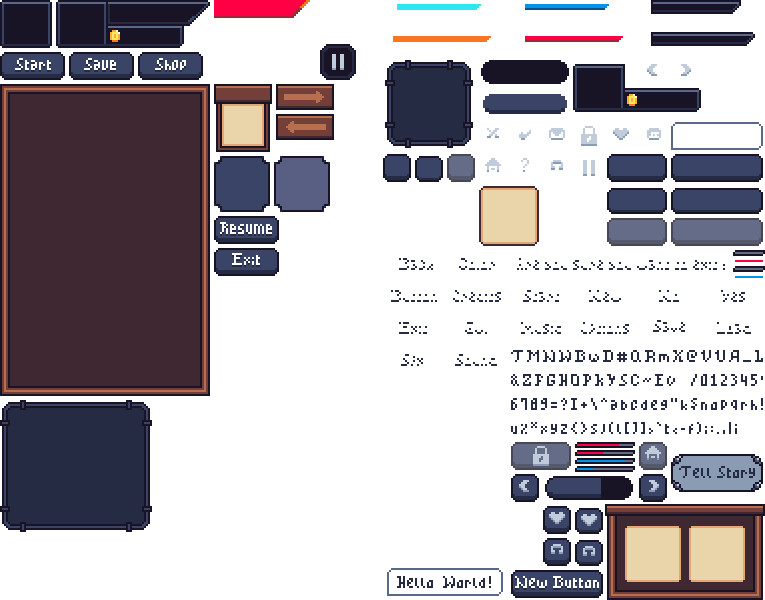
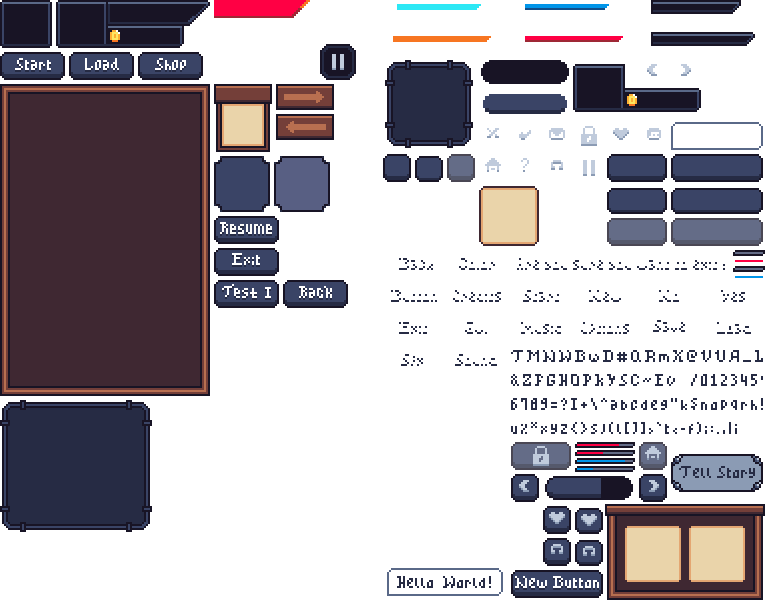
text added, load game button added (not working now)

Changed region(s): [[0.2706, 0.45, 0.481, 0.54], [0.0902, 0.09, 0.1503, 0.12]]

diff --git a/master.py b/master.py
@@ -66,9 +66,6 @@ if __name__ == '__main__':
     shop_button = ui.Buttons(pos=(720, 20), sprite_group=(sprites.all_sprites, sprites.ui_sprites), image_pos=(138, 52), image_size=(65, 28))
     player_balance = ui.Text(pos=(90, 50), sprite_group=sprites.all_sprites)
     player_ammo = ui.Text(pos=(720, 460), sprite_group=sprites.all_sprites)
-    info1 = ui.Text(pos=(30, 400), sprite_group=sprites.all_sprites, text='press W, A, S, D to move', size=14)
-    info2 = ui.Text(pos=(30, 430), sprite_group=sprites.all_sprites, text='press F to take the gun', size=14)
-    info2 = ui.Text(pos=(30, 460), sprite_group=sprites.all_sprites, text='press G to drop the gun', size=14)
 
     # Shop
     shop = ui.Shop(player=pl, pos=(590, 60), image_pos=(0, 84), image_size=(210, 312), sprite_group=(sprites.ui_sprites, sprites.all_sprites))
@@ -115,15 +112,28 @@ if __name__ == '__main__':
         if bool:
             game_started = True
             for sprite in main_menu_group:
-                sprite.add(sprites.all_sprites)
+                sprite.kill()
+                sprite.add(main_menu_group)
         else:
             game_started = False
-            for sprite in main_menu_group:
-                sprites.all_sprites.remove(sprite)
+
+    
+    def set_loading_menu_opened(bool):
+        global loading_menu_opened
+        if bool:
+            loading_menu_opened = True
+            for sprite in loading_menu_sprites:
+                sprite.add(main_menu_group)
+        else:
+            loading_menu_opened = False
+            for sprite in loading_menu_sprites:
+                main_menu_group.remove(sprite)
 
     pause_group = pygame.sprite.Group()
     main_menu_group = pygame.sprite.Group()
+    loading_menu_sprites = pygame.sprite.Group()
 
+    # Pause
     pause_button = ui.Buttons((390, 10), image_pos=(320, 44), image_size=(36, 36), sprite_group=(sprites.all_sprites, sprites.ui_sprites))
 
     black_bg = pygame.sprite.Sprite(pause_group)
@@ -135,14 +145,31 @@ if __name__ == '__main__':
     buttons_bg = ui.Img(pos=(280, 80), image_pos=(0, 400), image_size=(152, 132), sprite_group=(pause_group), scale=1.5)
     resume_button = ui.Buttons(pos=(345, 130), image_pos=(214, 216), image_size=(65, 28), sprite_group=(pause_group), scale=1.5)
     exit_button_on_pause = ui.Buttons(pos=(345, 180), image_pos=(214, 248), image_size=(65, 28), sprite_group=(pause_group), scale=1.5)
+    info1 = ui.Text(pos=(30, 340), sprite_group=pause_group, text='press W, A, S, D to move', size=14)
+    info2 = ui.Text(pos=(30, 370), sprite_group=pause_group, text='press F to take the gun', size=14)
+    info3 = ui.Text(pos=(30, 400), sprite_group=pause_group, text='press G to drop the gun', size=14)
+    info4 = ui.Text(pos=(30, 430), sprite_group=pause_group, text='press E to take the heal', size=14)
+    info5 = ui.Text(pos=(30, 460), sprite_group=pause_group, text='press Enter to the next level', size=14)
 
+    # Main menu
     main_menu_bg = ui.Img(pos=(0, 0), image='main_menu_bg2.png', image_pos=(0, 0), image_size=(800, 500), sprite_group=main_menu_group)
 
     start_game_button = ui.Buttons(pos=(345, 180), image_pos=(0, 52), image_size=(65, 28), sprite_group=(main_menu_group), scale=2)
-    exit_button_on_main_menu = ui.Buttons(pos=(345, 240), image_pos=(214, 248), image_size=(65, 28), sprite_group=(main_menu_group), scale=2)
+    load_game_button = ui.Buttons(pos=(345, 240), image_pos=(69, 52), image_size=(65, 28), sprite_group=(main_menu_group), scale=2)
+    exit_button_on_main_menu = ui.Buttons(pos=(345, 300), image_pos=(214, 248), image_size=(65, 28), sprite_group=(main_menu_group), scale=2)
+
+    # Loading menu
+    loading_menu_background = ui.Img(pos=(250, 110), image_pos=(0, 400), image_size=(152, 132), sprite_group=(loading_menu_sprites), scale=2)
+    save2 = ui.Buttons(pos=(335, 150), image_pos=(214, 280), image_size=(65, 28), sprite_group=(loading_menu_sprites), scale=2)
+    save1 = ui.Buttons(pos=(335, 210), image_pos=(214, 280), image_size=(65, 28), sprite_group=(loading_menu_sprites), scale=2)
+    save3 = ui.Buttons(pos=(335, 270), image_pos=(214, 280), image_size=(65, 28), sprite_group=(loading_menu_sprites), scale=2)
+    back_to_main_menu_button = ui.Buttons(pos=(335, 380), image_pos=(283, 280), image_size=(65, 28), sprite_group=(loading_menu_sprites), scale=2)
+
+
 
     game_started = False
     game_paused = False
+    loading_menu_opened = False
 
     set_game_started(False)
 
@@ -153,13 +180,16 @@ if __name__ == '__main__':
                     running = False
 
                 if event.type == pygame.MOUSEBUTTONDOWN:
-                    if start_game_button.mouse_clicked():
-                        set_game_started(True)
-                        for sprite in main_menu_group:
-                            sprite.kill()
-                            sprite.add(main_menu_group)
-                    if exit_button_on_main_menu.mouse_clicked():
-                        running = False
+                    if not loading_menu_opened:
+                        if start_game_button.mouse_clicked():
+                            set_game_started(True)
+                        if exit_button_on_main_menu.mouse_clicked():
+                            running = False
+                        if load_game_button.mouse_clicked():
+                            set_loading_menu_opened(True)
+                    else:
+                        if back_to_main_menu_button.mouse_clicked():
+                            set_loading_menu_opened(False)
                 
 
             main_menu_group.draw(screen)
